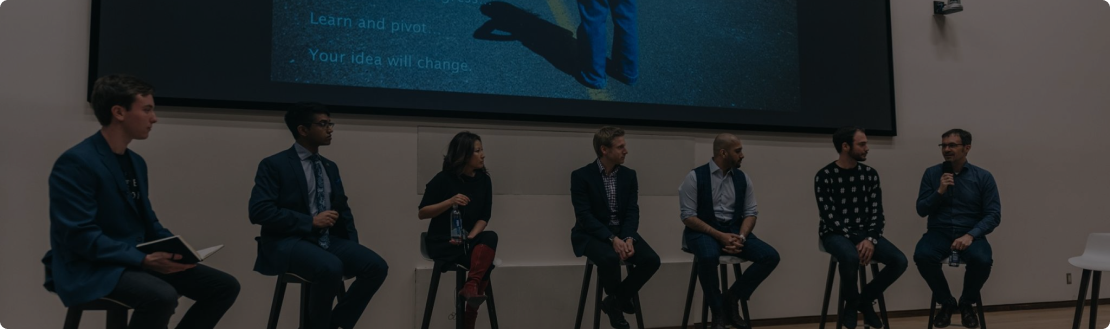
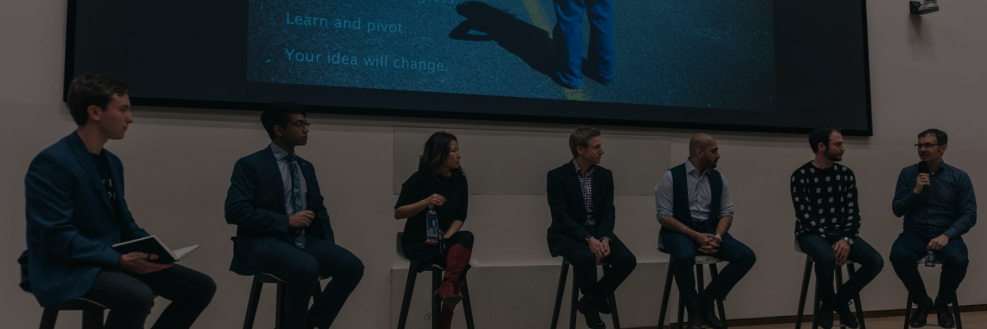
More slideshow modifications.

diff --git a/src/pages/index.js b/src/pages/index.js
@@ -3,8 +3,9 @@ import { ThemeProvider } from "styled-components"
 import { graphql, useStaticQuery } from "gatsby"
 import Button from "../components/Button"
 import ButtonInverted from "../components/ButtonInverted"
-import BackgroundImage from "../components/BackgroundImage.js"
-import { Theme, device, H2, H3, P, BackgroundShading } from "../styles/Global.js"
+import BackgroundImage from "../components/BackgroundImage"
+import ButtonWhite from "../components/ButtonWhite"
+import { Theme, device, H2, H3, P, BackgroundShading } from "../styles/Global"
 import H1 from "../styles/H1"
 import Img from "gatsby-image"
 import styled from "styled-components"
@@ -12,8 +13,6 @@ import "../styles/Global.css"
 import Carousel from "react-bootstrap/Carousel"
 import "bootstrap/dist/css/bootstrap.min.css"
 import slide1 from "../images/EventsCarousel/futureView.png"
-import slide2 from "../images/EventsCarousel/futureView2.png"
-import slide3 from "../images/EventsCarousel/futureView3.png"
 
 const IndexPage = () => {
   const data = useStaticQuery(graphql`
@@ -27,6 +26,14 @@ const IndexPage = () => {
         }
       }
       joinTheNetwork: file(relativePath: {eq: "JoinTheNetwork.png"}) {
+        id
+        childImageSharp {
+          fluid(quality:100) {
+            ...GatsbyImageSharpFluid
+          }
+        }
+      }
+      futureView: file(relativePath: {eq: "FutureView.png"}) {
         id
         childImageSharp {
           fluid(quality:100) {
@@ -77,14 +84,11 @@ const IndexPage = () => {
           <div className="eventsCarousel">
             <Carousel>
               <Carousel.Item>
-                <img
-                  src={slide1}
-                  alt="First slide"
-                />
+                <Img draggable="false" fluid={data.futureView.childImageSharp.fluid}/>
                 <Carousel.Caption>
                   <H2>Future View Pitch Day</H2>
                   <H3>February 17 / Virtual</H3>
-                  <Button text="test"/>
+                  <Button text="Register"/>
                 </Carousel.Caption>
               </Carousel.Item>
             </Carousel>

diff --git a/src/components/ButtonWhite.js b/src/components/ButtonWhite.js
@@ -1,0 +1,32 @@
+import styled from "styled-components"
+import React from "react"
+import { Link } from "gatsby"
+
+const ButtonWhite = (props) => {
+  return (
+    <Link to={props.link ? props.link : "/"} style={{textDecoration: "none", color: "white"}}>
+      <StyledButtonWhite>
+        {props.text}
+      </StyledButtonWhite>
+    </Link>
+  )
+}
+
+export default ButtonWhite
+
+const StyledButtonWhite = styled.div`
+  min-width: 8em;
+  height: 2em;
+  border: 30em;
+  border-color: white;
+  background: none;
+  border-radius: 8px;
+  color: white;
+  font-size: ${(props) => props.theme.fontMedium};
+  padding-left: 15px;
+  padding-right: 15px;
+  line-height: 2em;
+  display: inline-block;
+  text-align: center;
+  cursor: pointer;
+`;

diff --git a/src/styles/H1.js b/src/styles/H1.js
@@ -1,5 +1,12 @@
 import React from "react"
 import styled from "styled-components"
+
+const H1 = ({center, white, children}) => {
+    return <StyledH1 center={center} white={white}>{children}</StyledH1>
+};
+
+export default H1
+
 const StyledH1 = styled.h1`
     font-size: ${props => props.theme.fontXLarge};
     text-align: ${props => props.center ? "center":"initial"};
@@ -7,8 +14,3 @@ const StyledH1 = styled.h1`
     color: ${props => props.white ? "#FFFFFF":"#333333"};
     font-weight: bold;
 `;
-const H1 = ({center, white, children}) => {
-    return <StyledH1 center={center} white={white}>{children}</StyledH1>
-};
-
-export default H1;

diff --git a/src/styles/Global.css b/src/styles/Global.css
@@ -51,5 +51,6 @@ body {
     width: 90%;
 }
 .eventsCarousel {
-    margin: 0 20% 0 20%;
+    width: 80%;
+    margin: auto;
 }
